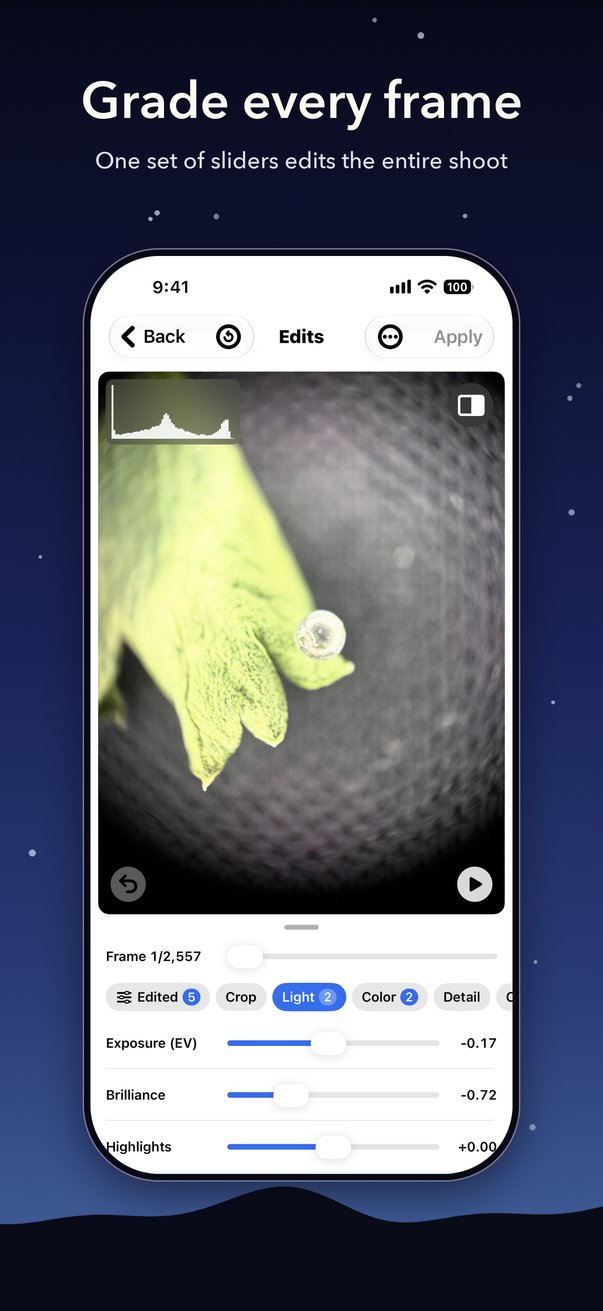
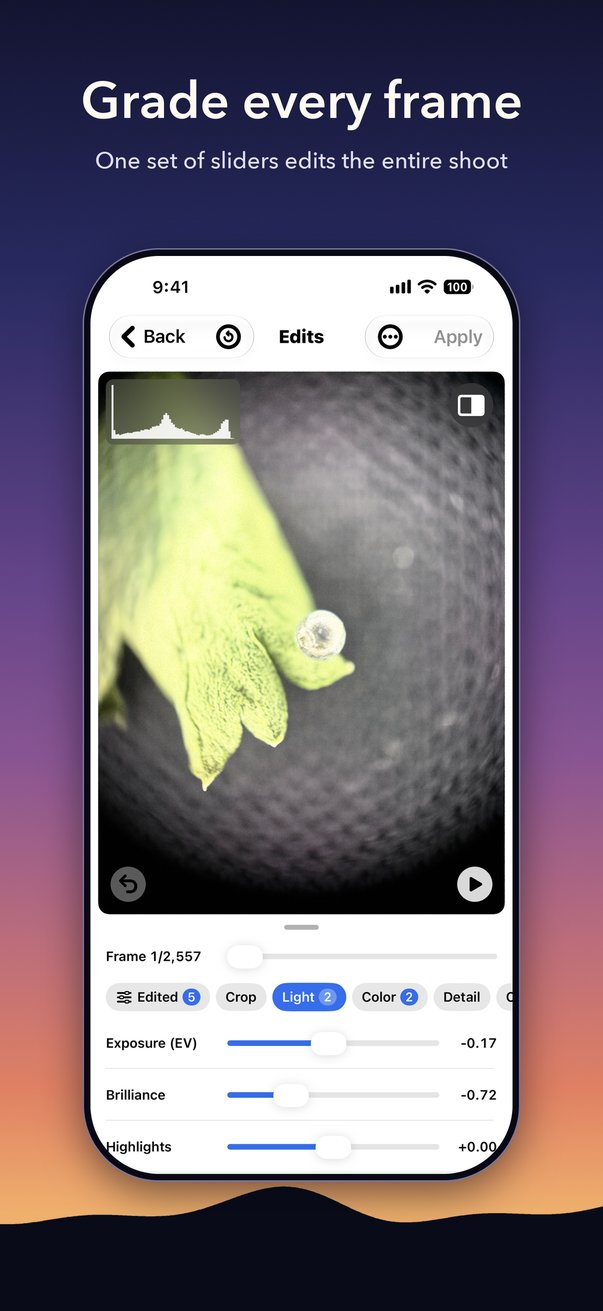
Light row on the sunset sky (D-705)

diff --git a/index.html b/index.html
@@ -76,14 +76,14 @@
 
 <p class="look">Light</p>
 <div class="shots">
-  <img src="img/1-capture.jpg?v=2026-10-20f" width="603" height="1311" alt="The capture screen. Capture timelapses: any interval, from half a second to 24 hours.">
-  <img src="img/light-2-batch-edit.jpg?v=2026-10-20f" width="603" height="1311" loading="lazy" alt="Edits. Grade every frame: one set of sliders edits the entire shoot. Shown in light.">
-  <img src="img/light-3-star-trails.jpg?v=2026-10-20f" width="603" height="1311" loading="lazy" alt="Star Trails. Stack photos to turn the night sky into streaks of light. Shown in light.">
-  <img src="img/light-4-deflicker.jpg?v=2026-10-20f" width="603" height="1311" loading="lazy" alt="Deflicker. Fix the flicker: even out the exposure across a whole shoot. Shown in light.">
-  <img src="img/light-5-speed-ramp.jpg?v=2026-10-20f" width="603" height="1311" loading="lazy" alt="Speed Ramp. Change the playback speed with presets or custom values. Shown in light.">
-  <img src="img/light-6-library.jpg?v=2026-10-20f" width="603" height="1311" loading="lazy" alt="The Library. All your shoots, organized in one place. Shown in light.">
-  <img src="img/light-7-export.jpg?v=2026-10-20f" width="603" height="1311" loading="lazy" alt="Export in 4K HDR: H.264, H.265 or ProRes, up to 10-bit colour. Shown in light.">
-  <img src="img/light-8-smooth-motion.jpg?v=2026-10-20f" width="603" height="1311" loading="lazy" alt="Smooth Motion. Blend frames so clouds and water turn silky. Shown in light.">
+  <img src="img/light-1-capture.jpg?v=2026-10-20g" width="603" height="1311" alt="The capture screen. Capture timelapses: any interval, from half a second to 24 hours.">
+  <img src="img/light-2-batch-edit.jpg?v=2026-10-20g" width="603" height="1311" loading="lazy" alt="Edits. Grade every frame: one set of sliders edits the entire shoot. Shown in light.">
+  <img src="img/light-3-star-trails.jpg?v=2026-10-20g" width="603" height="1311" loading="lazy" alt="Star Trails. Stack photos to turn the night sky into streaks of light. Shown in light.">
+  <img src="img/light-4-deflicker.jpg?v=2026-10-20g" width="603" height="1311" loading="lazy" alt="Deflicker. Fix the flicker: even out the exposure across a whole shoot. Shown in light.">
+  <img src="img/light-5-speed-ramp.jpg?v=2026-10-20g" width="603" height="1311" loading="lazy" alt="Speed Ramp. Change the playback speed with presets or custom values. Shown in light.">
+  <img src="img/light-6-library.jpg?v=2026-10-20g" width="603" height="1311" loading="lazy" alt="The Library. All your shoots, organized in one place. Shown in light.">
+  <img src="img/light-7-export.jpg?v=2026-10-20g" width="603" height="1311" loading="lazy" alt="Export in 4K HDR: H.264, H.265 or ProRes, up to 10-bit colour. Shown in light.">
+  <img src="img/light-8-smooth-motion.jpg?v=2026-10-20g" width="603" height="1311" loading="lazy" alt="Smooth Motion. Blend frames so clouds and water turn silky. Shown in light.">
 </div>
 
 <p class="look">Dark</p>
